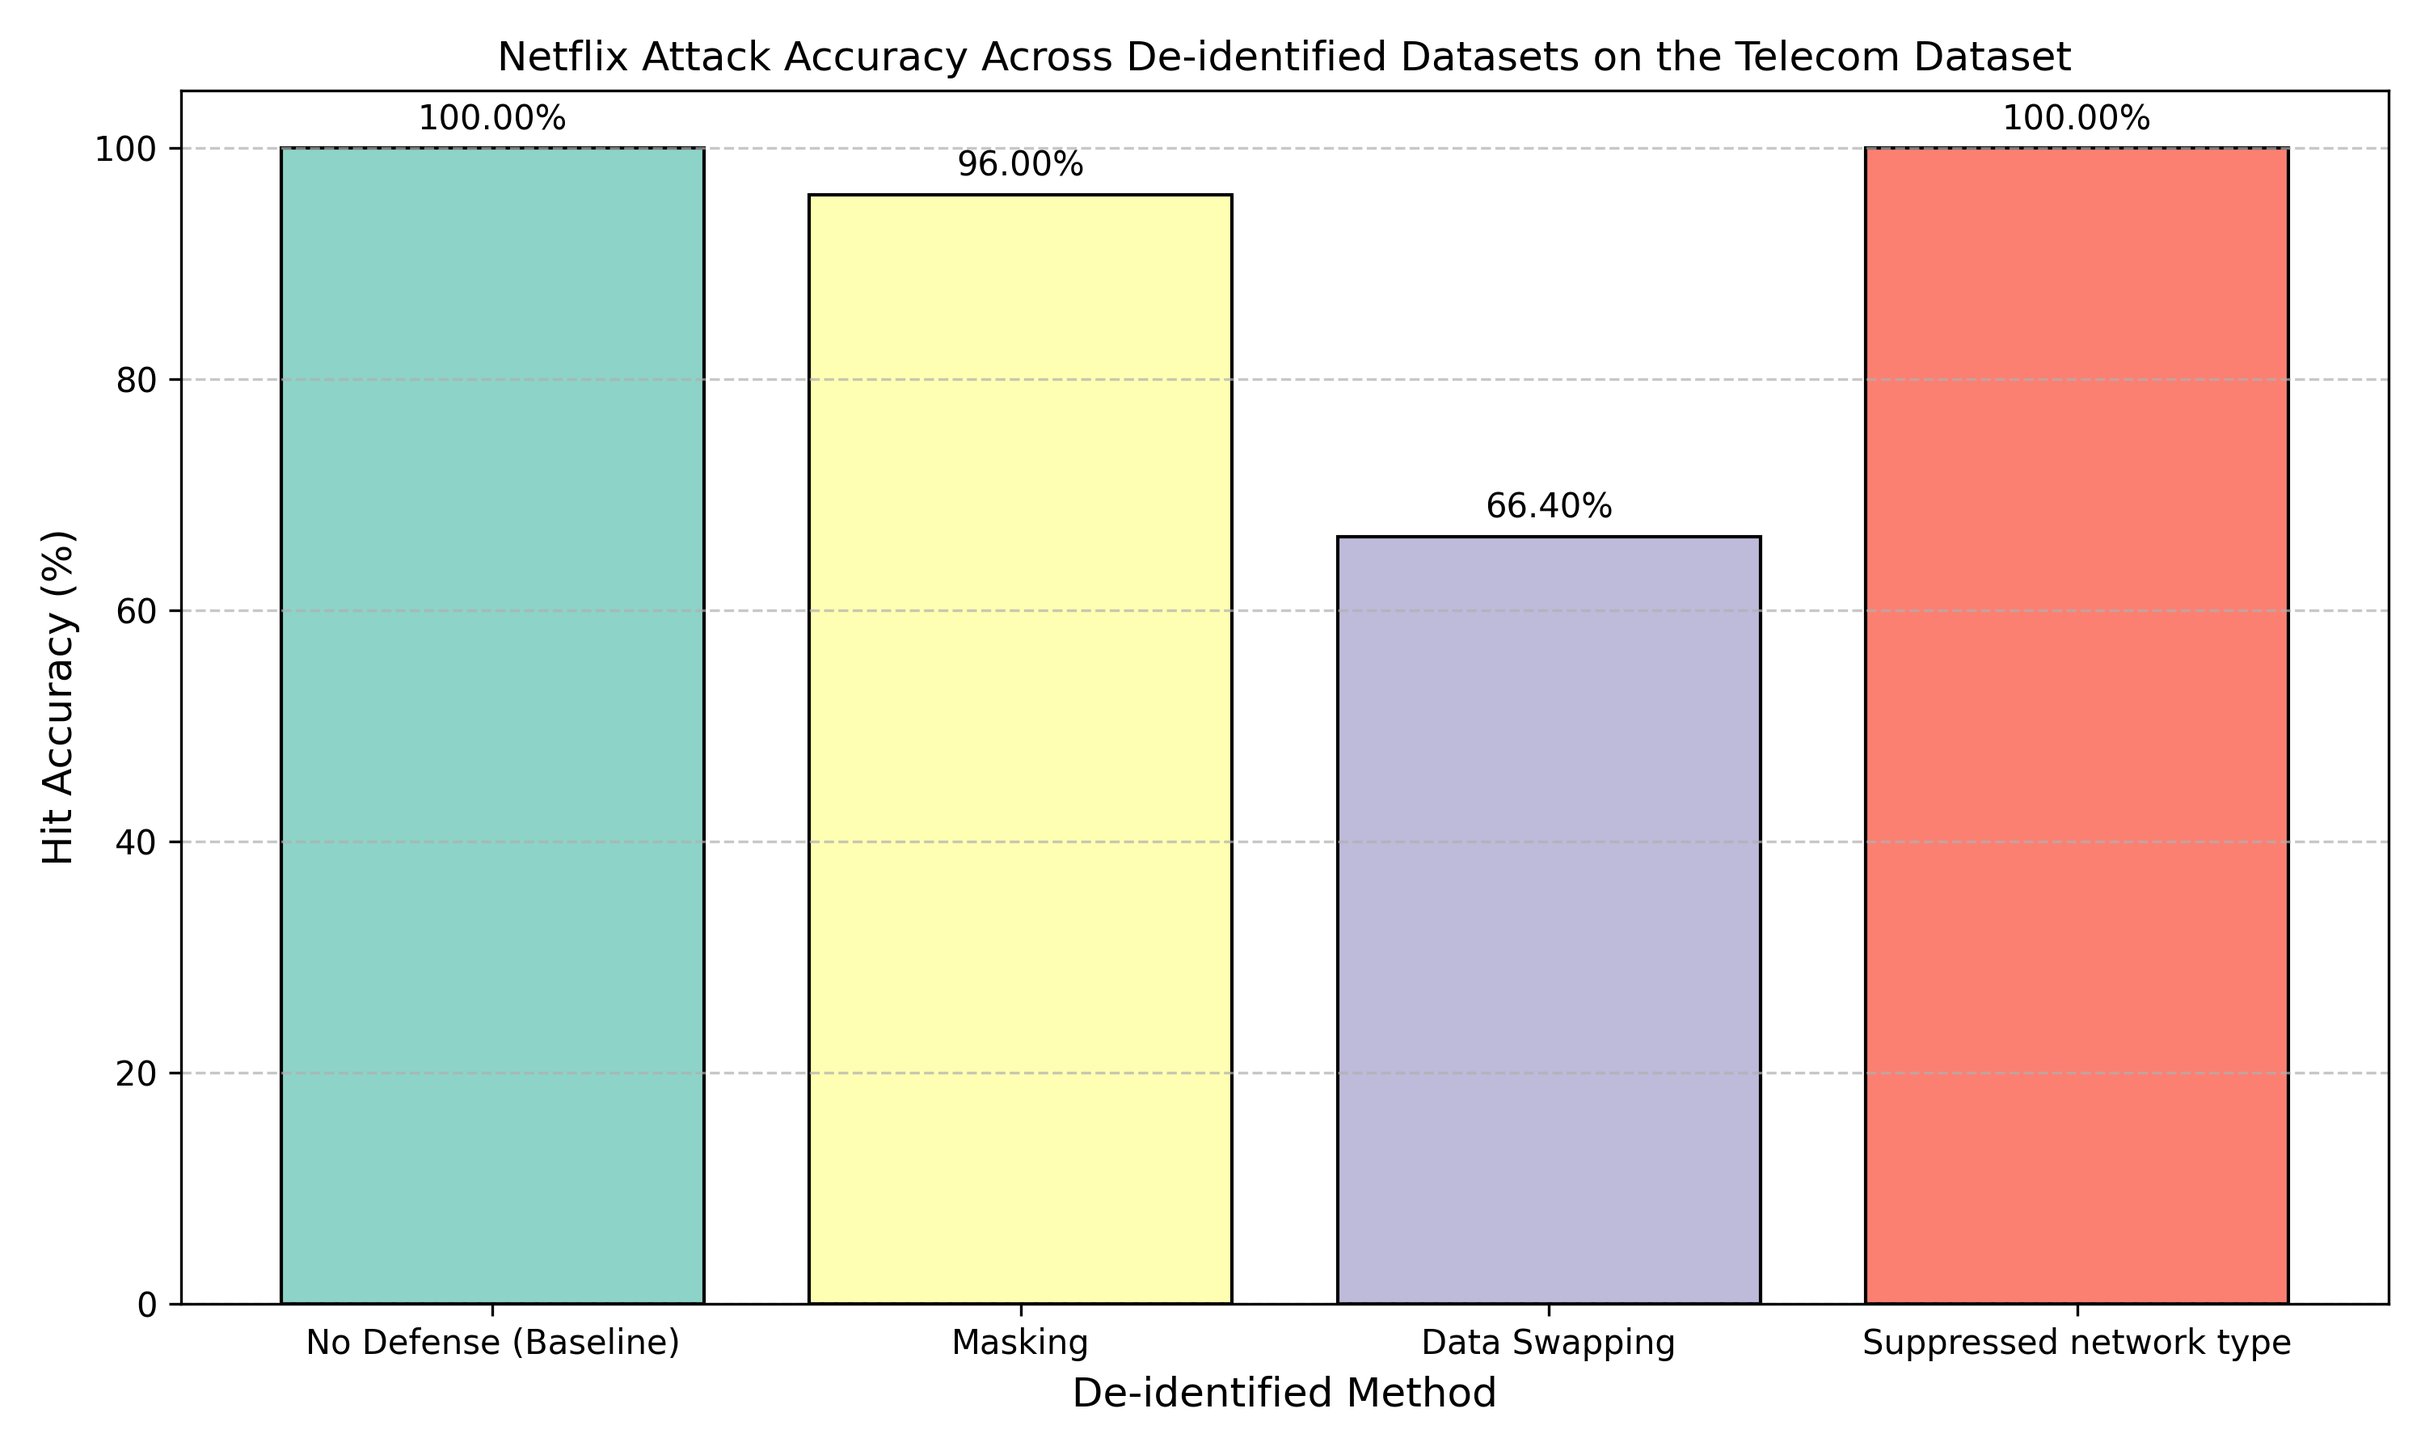
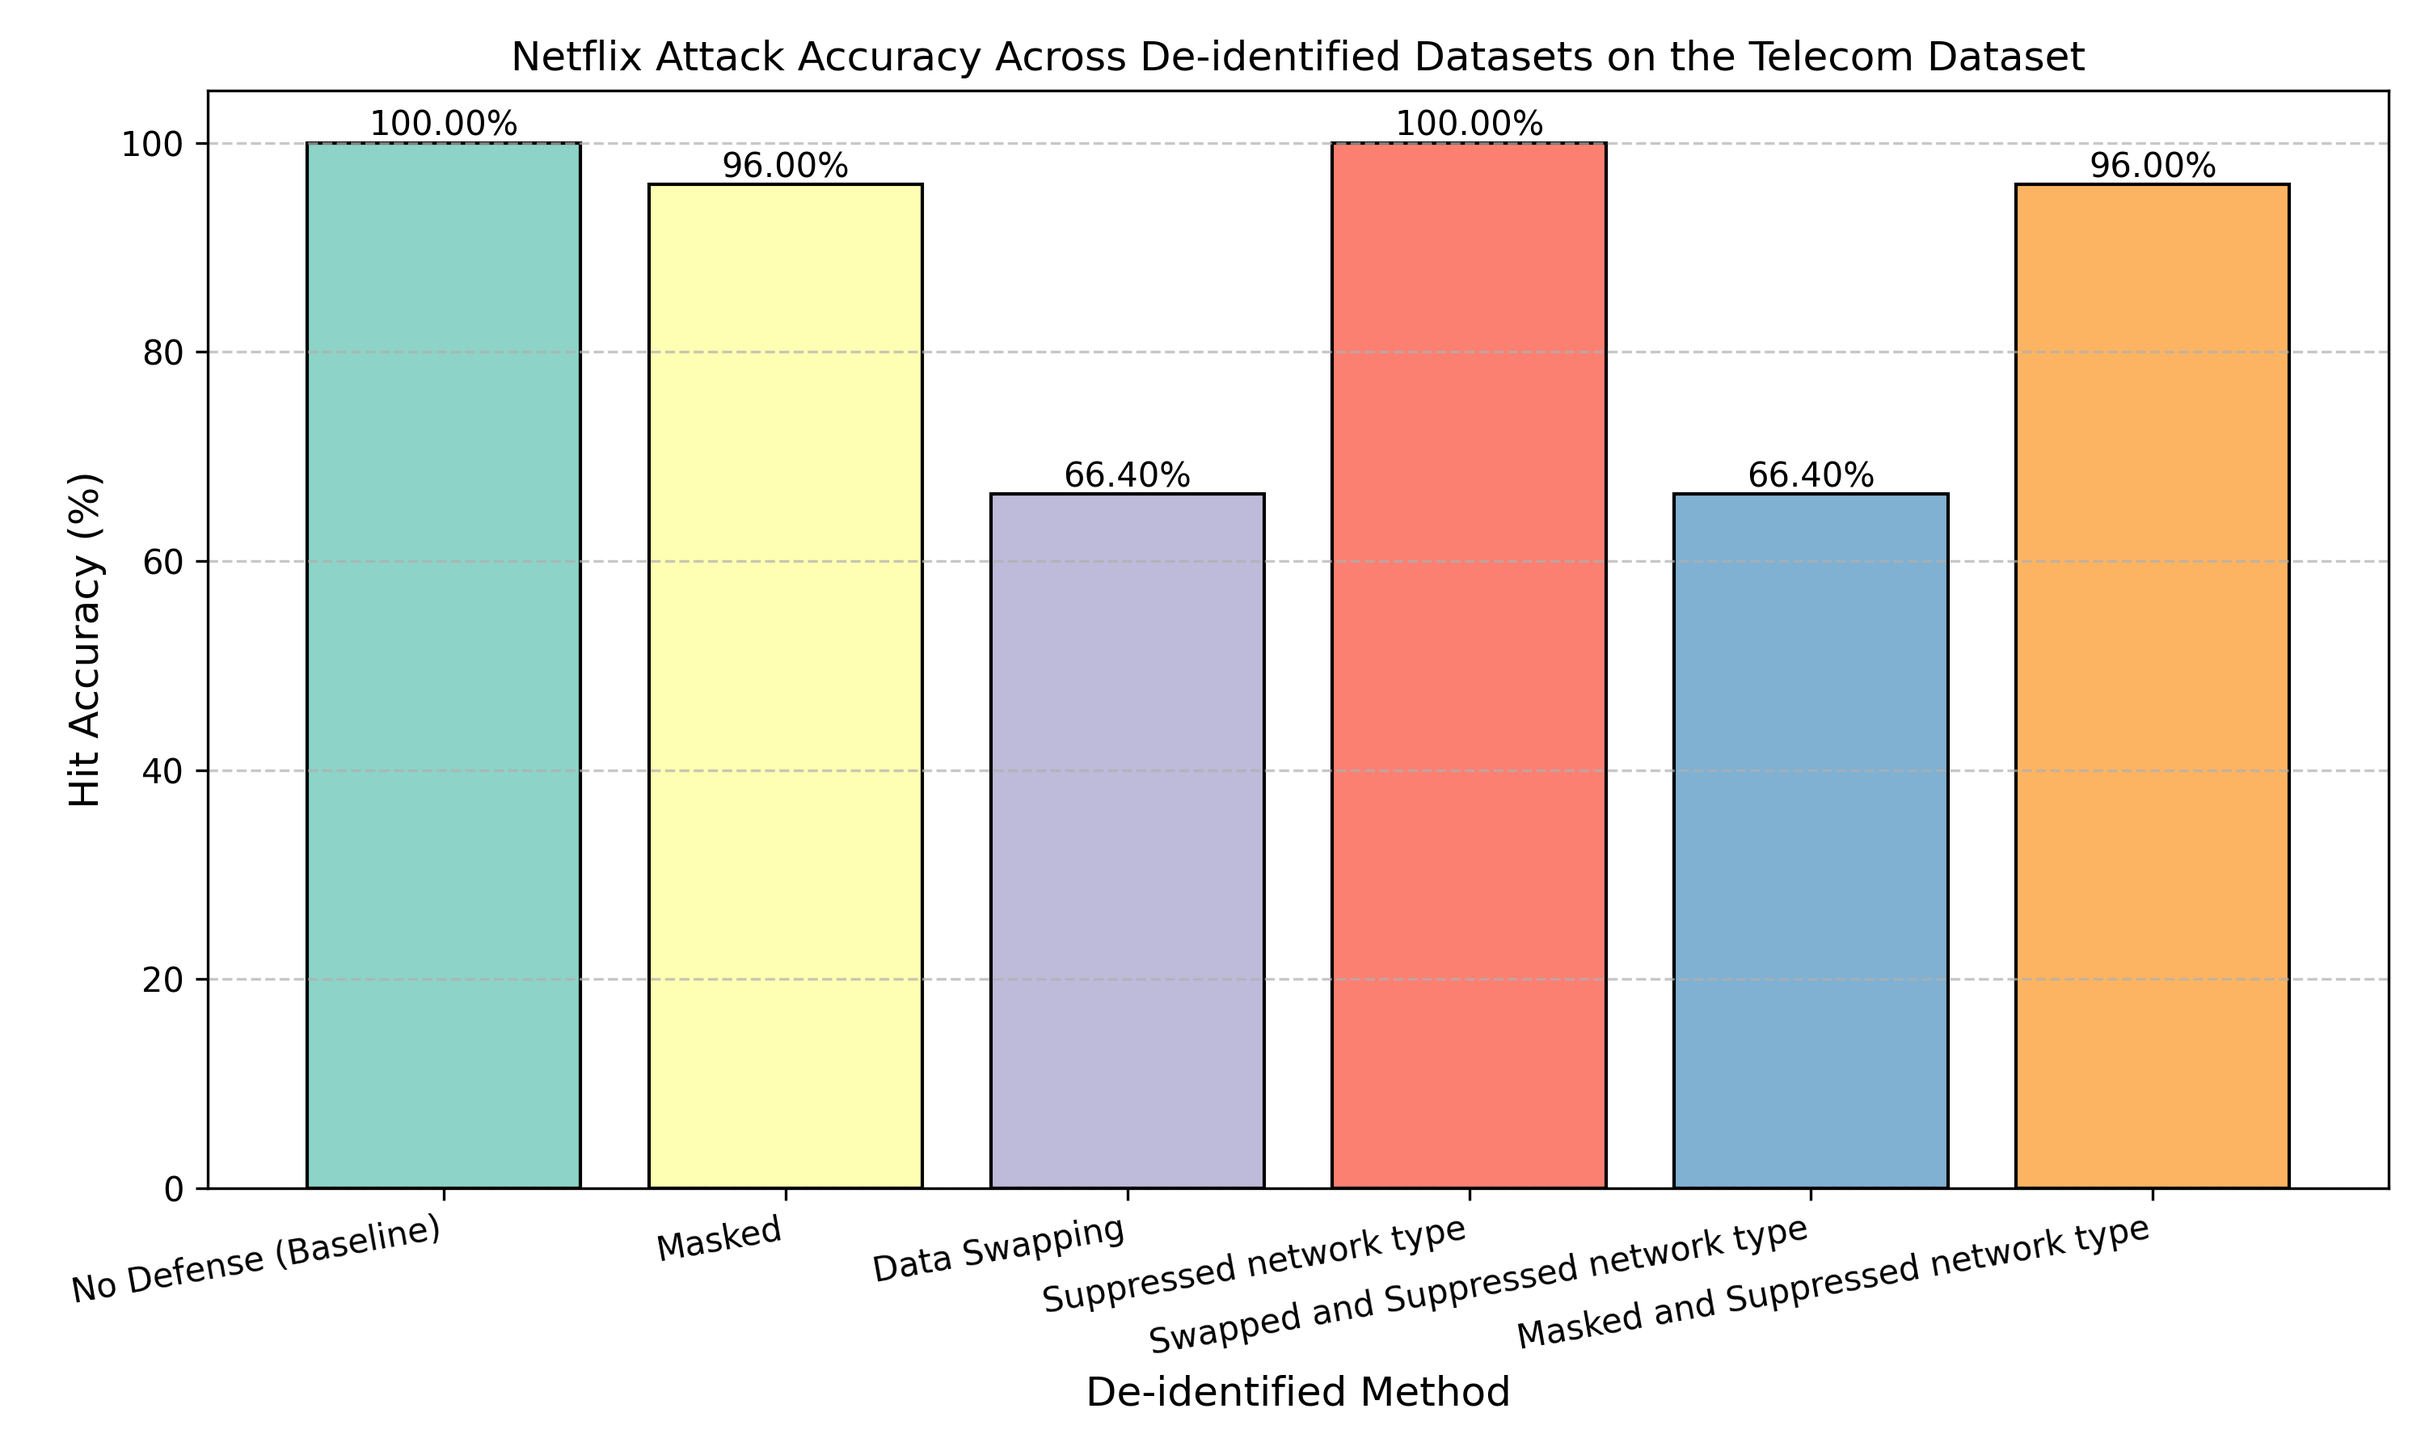
wyp

diff --git a/benchmarks/attacks/k-nearest-neighbors-telecom.py b/benchmarks/attacks/k-nearest-neighbors-telecom.py
@@ -68,8 +68,9 @@ def plot_results(results_dict, k):
     
     for i in range(len(methods)):
         plt.bar(methods[i], accuracies[i], color=plt.cm.Set3(i), edgecolor='black')
-        plt.text(methods[i], accuracies[i] + 1, f"{accuracies[i]:.2f}%", ha='center', va='bottom', fontsize=10)
-        
+        plt.text(methods[i], accuracies[i], f"{accuracies[i]:.2f}%", ha='center', va='bottom', fontsize=10)
+
+    plt.xticks(rotation=10, ha='right', fontsize=10)    
     plt.ylabel('Hit Accuracy (%)', fontsize=12)
     plt.xlabel('De-identified Method', fontsize=12)
     plt.title(f'K-Nearest Neighbors with k={k} Attack Accuracy Across De-identified Datasets on the Mendeley Dataset', fontsize=12)
@@ -91,47 +92,37 @@ def mask_LAI_RAI(value): # since we assume the attacker has the access to the ma
 
 if __name__ == "__main__":
     df_original = pd.read_csv('../../datasets/synthetic_telecom_data.csv')
-
+    
     quasi_identifiers = ['LAI', 'RAI', 'Network_Type']
 
     df_attacker =  pd.read_csv('../../datasets/external_telecom_data.csv')
-    # only use 500 rows to speed up the attack
-    # using df.sample(500, random_state=42) would be more realistic, but for simplicity we just take the first 500 rows here.
-    df_original = df_original.head(500)
-    df_attacker = df_attacker.head(500)
-    df_masked = pd.read_csv('../../datasets/de-identified-datasets/masked_dataset_telecom.csv')
-    df_masked = df_masked.head(500)
-    df_masked['LAI'] = df_masked['LAI'].apply(mask_LAI_RAI)
-    df_masked['RAI'] = df_masked['RAI'].apply(mask_LAI_RAI)
-    df_swapped = pd.read_csv('../../datasets/de-identified-datasets/swapped_telecom_data.csv')
-    df_swapped = df_swapped.head(500)
-    df_suppressed_network_type = pd.read_csv('../../datasets/de-identified-datasets/suppressed_network_type_telecom.csv')
-    df_suppressed_network_type = df_suppressed_network_type.head(500)
-    df_swapped_and_suppressed_network_type = pd.read_csv('../../datasets/de-identified-datasets/swapped_and_suppressed_network_type_telecom.csv')
-    df_swapped_and_suppressed_network_type = df_swapped_and_suppressed_network_type.head(500)
-
+   
     k = 1
 
     datasets_to_test = {
         "No Defense (Baseline)": df_original,
-        # "Generalization" : pd.read_csv('../../datasets/de-identified-datasets/generalization.csv'),
-        "Masking": df_masked,
-        "Data Swapping" : df_swapped,
-        "Suppressed network type" : df_suppressed_network_type
-        # "Masking & Generalization": pd.read_csv('../../datasets/de-identified-datasets/generalization_and_masking.csv'),
-        # "Data Swapping" : pd.read_csv('../../datasets/de-identified-datasets/swapped_data.csv')
+        "Masked": pd.read_csv('../../datasets/de-identified-datasets/masked_dataset_telecom.csv'),
+        "Data Swapping" : pd.read_csv('../../datasets/de-identified-datasets/swapped_dataset_telecom.csv'),
+        "Suppressed network type" : pd.read_csv('../../datasets/de-identified-datasets/suppressed_network_type_telecom.csv'),
+        "Swapped and Suppressed network type" : pd.read_csv('../../datasets/de-identified-datasets/swapped_and_suppressed_network_type_telecom.csv'),
+        "Masked and Suppressed network type" : pd.read_csv('../../datasets/de-identified-datasets/masked_and_suppressed_network_type_telecom.csv')
     }
 
     final_results = {}
-    
+    # only use 500 rows to speed up the attack
+    # using df.sample(500, random_state=42) would be more realistic, but for simplicity we just take the first 500 rows here.
+    df_attacker = df_attacker.head(500)
     for defense_name, df_protected in datasets_to_test.items():
-        if defense_name.__contains__("Suppressed"):
-
-            quasi_identifiers = ['LAI', 'RAI']
-
-        
-        results = perform_attack(df_protected, df_attacker, quasi_identifiers, k)
-        
+        df_protected = df_protected.head(500) # only use 500 rows to speed up the attack, and to be consistent with the attacker's dataset size
+        if defense_name.__contains__("Masked"):
+            df_attacker_masked = df_attacker.copy()
+            df_attacker_masked['LAI'] = df_attacker_masked['LAI'].apply(mask_LAI_RAI)
+            df_attacker_masked['RAI'] = df_attacker_masked['RAI'].apply(mask_LAI_RAI)
+            results = perform_attack(df_protected, df_attacker_masked, quasi_identifiers, k)
+        else:
+            if defense_name.__contains__("Suppressed"):
+                quasi_identifiers = ['LAI', 'RAI']
+            results = perform_attack(df_protected, df_attacker, quasi_identifiers, k)
         hit_accuracy = evaluate_attack(results, defense_name)
         final_results[defense_name] = hit_accuracy
         

diff --git a/benchmarks/attacks/fellegi-sunter-telecom.py b/benchmarks/attacks/fellegi-sunter-telecom.py
@@ -16,8 +16,6 @@ def perform_attack(df_protected, df_attacker, quasi_identifiers):
 
 
     for qi in quasi_identifiers:
-            df_attacker[qi] = df_attacker[qi].astype(str)
-            df_protected[qi] = df_protected[qi].astype(str)
             if qi in ['LAI', 'RAI']: # handle LAI and RAI as special cases, since they have a hierarchical structure that can be partially matched
                 # jarowinkler is a string similarity metric that gives a score between 0 and 1 based on how closely the strings match
                 # the threshold is based on how much the LAI and RAI has been masked/generalized.
@@ -74,8 +72,9 @@ def plot_results(results_dict):
     
     for i in range(len(methods)):
         plt.bar(methods[i], accuracies[i], color=plt.cm.Set3(i), edgecolor='black')
-        plt.text(methods[i], accuracies[i] + 1, f"{accuracies[i]:.2f}%", ha='center', va='bottom', fontsize=10)
+        plt.text(methods[i], accuracies[i], f"{accuracies[i]:.2f}%", ha='center', va='bottom', fontsize=10)
         
+    plt.xticks(rotation=10, ha='right', fontsize=10)    
     plt.ylabel('Hit Accuracy (%)', fontsize=12)
     plt.xlabel('De-identified Method', fontsize=12)
     plt.title('Fellegi-Sunter Attack Accuracy Across De-identified Datasets on the Mendeley Dataset', fontsize=12)
@@ -91,32 +90,21 @@ if __name__ == "__main__":
     quasi_identifiers = ['LAI', 'RAI', 'Network_Type']
 
     df_attacker =  pd.read_csv('../../datasets/external_telecom_data.csv')
-    # only use 500 rows to speed up the attack
-    # using df.sample(500, random_state=42) would be more realistic, but for simplicity we just take the first 500 rows here.
-    df_original = df_original.head(500)
-    df_attacker = df_attacker.head(500)
-    
-    df_masked = pd.read_csv('../../datasets/de-identified-datasets/masked_dataset_telecom.csv')
-    df_masked = df_masked.head(500)
-    df_swapped = pd.read_csv('../../datasets/de-identified-datasets/swapped_telecom_data.csv')
-    df_swapped = df_swapped.head(500)
-    df_suppressed_network_type = pd.read_csv('../../datasets/de-identified-datasets/suppressed_network_type_telecom.csv')
-    df_suppressed_network_type = df_suppressed_network_type.head(500)
-    df_swapped_and_suppressed_network_type = pd.read_csv('../../datasets/de-identified-datasets/swapped_and_suppressed_network_type_telecom.csv')
-    df_swapped_and_suppressed_network_type = df_swapped_and_suppressed_network_type.head(500)
+
     datasets_to_test = {
         "No Defense (Baseline)": df_original,
-        # "Generalization" : pd.read_csv('../../datasets/de-identified-datasets/generalization.csv'),
-        "Masking": df_masked,
-        "Swapping" : df_swapped,
-        "Suppressed network type" : df_suppressed_network_type,
-        "Swapped and Suppressed network" : df_swapped_and_suppressed_network_type
-        # "Masking & Generalization": pd.read_csv('../../datasets/de-identified-datasets/generalization_and_masking.csv'),
-        # "Data Swapping" : pd.read_csv('../../datasets/de-identified-datasets/swapped_data.csv')
+        "Masked": pd.read_csv('../../datasets/de-identified-datasets/masked_dataset_telecom.csv'),
+        "Data Swapping" : pd.read_csv('../../datasets/de-identified-datasets/swapped_dataset_telecom.csv'),
+        "Suppressed network type" : pd.read_csv('../../datasets/de-identified-datasets/suppressed_network_type_telecom.csv'),
+        "Swapped and Suppressed network type" : pd.read_csv('../../datasets/de-identified-datasets/swapped_and_suppressed_network_type_telecom.csv'),
+        "Masked and Suppressed network type" : pd.read_csv('../../datasets/de-identified-datasets/masked_and_suppressed_network_type_telecom.csv')
     }
     final_results = {}
-    
+    # only use 500 rows to speed up the attack
+    # using df.sample(500, random_state=42) would be more realistic, but for simplicity we just take the first 500 rows here.
+    df_attacker = df_attacker.head(500)
     for defense_name, df_protected in datasets_to_test.items():
+        df_protected = df_protected.head(500) # only use 500 rows to speed up the attack, and to be consistent with the attacker's dataset size
         if defense_name.__contains__("Suppressed"):
             quasi_identifiers = ['LAI', 'RAI']
         results = perform_attack(df_protected, df_attacker, quasi_identifiers)

diff --git a/benchmarks/attacks/netflix-attack-telecom.py b/benchmarks/attacks/netflix-attack-telecom.py
@@ -79,7 +79,8 @@ def plot_results(results_dict):
     
     for i in range(len(methods)):
         plt.bar(methods[i], accuracies[i], color=plt.cm.Set3(i), edgecolor='black')
-        plt.text(methods[i], accuracies[i] + 1, f"{accuracies[i]:.2f}%", ha='center', va='bottom', fontsize=10)
+        plt.text(methods[i], accuracies[i], f"{accuracies[i]:.2f}%", ha='center', va='bottom', fontsize=10)
+    plt.xticks(rotation=10, ha='right', fontsize=10)    
     plt.ylabel('Hit Accuracy (%)', fontsize=12)
     plt.xlabel('De-identified Method', fontsize=12)
     plt.title('Netflix Attack Accuracy Across De-identified Datasets on the Telecom Dataset', fontsize=12)
@@ -96,36 +97,23 @@ if __name__ == "__main__":
     quasi_identifiers = ['LAI', 'RAI', 'Network_Type']
 
     df_attacker =  pd.read_csv('../../datasets/external_telecom_data.csv')
-    # only use 500 rows to speed up the attack
-    # using df.sample(500, random_state=42) would be more realistic, but for simplicity we just take the first 500 rows here.
-    df_original = df_original.head(500)
-    df_attacker = df_attacker.head(500)
-    df_masked = pd.read_csv('../../datasets/de-identified-datasets/masked_dataset_telecom.csv')
-    df_masked = df_masked.head(500)
-    df_swapped = pd.read_csv('../../datasets/de-identified-datasets/swapped_telecom_data.csv')
-    df_swapped = df_swapped.head(500)
-    df_suppressed_network_type = pd.read_csv('../../datasets/de-identified-datasets/suppressed_network_type_telecom.csv')
-    df_suppressed_network_type = df_suppressed_network_type.head(500)
-
-
 
     # add more defenses here
     datasets_to_test = {
         "No Defense (Baseline)": df_original,
-        # "Generalization" : pd.read_csv('../../datasets/de-identified-datasets/generalization.csv'),
-        "Masking": df_masked,
-        "Data Swapping" : df_swapped,
-        "Suppressed network type" : df_suppressed_network_type
-        # "Masking and generalization" : pd.read_csv('../../datasets/de-identified-datasets/generalization_and_masking.csv'),
-        # "Data Swapping" : pd.read_csv('../../datasets/de-identified-datasets/swapped_data.csv')
-        # "Suppression" : pd.read_csv("../datasets/de-identified-datasets/suppressed_city.csv")
-        # "v2": pd.read_csv('../datasets/anonymized_v2.csv'),
-        # "v3": pd.read_csv('../datasets/anonymized_v3.csv')
+        "Masked": pd.read_csv('../../datasets/de-identified-datasets/masked_dataset_telecom.csv'),
+        "Data Swapping" : pd.read_csv('../../datasets/de-identified-datasets/swapped_dataset_telecom.csv'),
+        "Suppressed network type" : pd.read_csv('../../datasets/de-identified-datasets/suppressed_network_type_telecom.csv'),
+        "Swapped and Suppressed network type" : pd.read_csv('../../datasets/de-identified-datasets/swapped_and_suppressed_network_type_telecom.csv'),
+        "Masked and Suppressed network type" : pd.read_csv('../../datasets/de-identified-datasets/masked_and_suppressed_network_type_telecom.csv')
     }
 
     final_results = {}
-    
+    # only use 500 rows to speed up the attack
+    # using df.sample(500, random_state=42) would be more realistic, but for simplicity we just take the first 500 rows here.
+    df_attacker = df_attacker.head(500)
     for defense_name, df_protected in datasets_to_test.items():
+        df_protected = df_protected.head(500) # only use 500 rows to speed up the attack, and to be consistent with the attacker's dataset size
         if defense_name.__contains__("Suppressed"):
             quasi_identifiers = ['LAI', 'RAI']
 

diff --git a/De-identification/data-swapping.py b/De-identification/data-swapping.py
@@ -17,4 +17,4 @@ def apply_swapping(data, columns_to_swap):
 quasi_identifiers_to_swap = ["RAI", "LAI", "Network_Type"] # we can choose which quasi-identifiers to swap
 swapped_df = apply_swapping(df, quasi_identifiers_to_swap)
 
-swapped_df.to_csv("../datasets/de-identified-datasets/swapped_telecom_data.csv", index=False)
+swapped_df.to_csv("../datasets/de-identified-datasets/swapped_dataset_telecom.csv", index=False)
